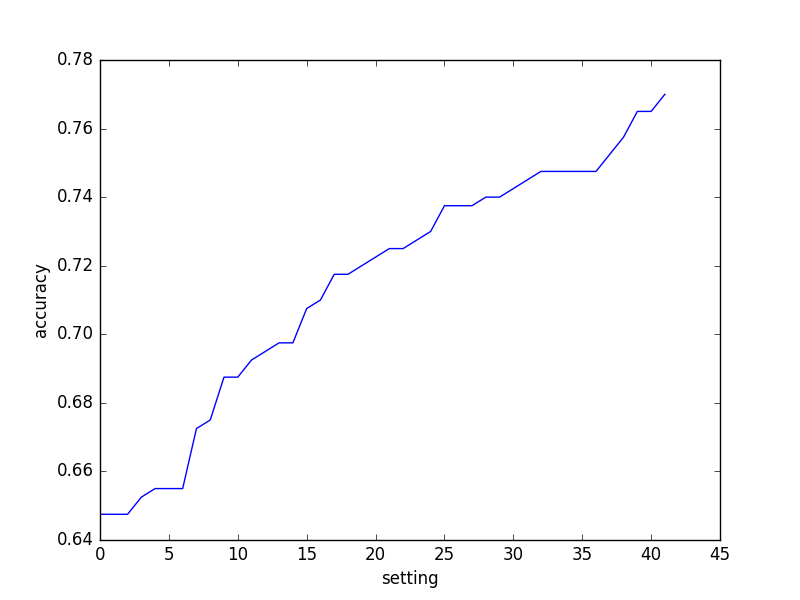
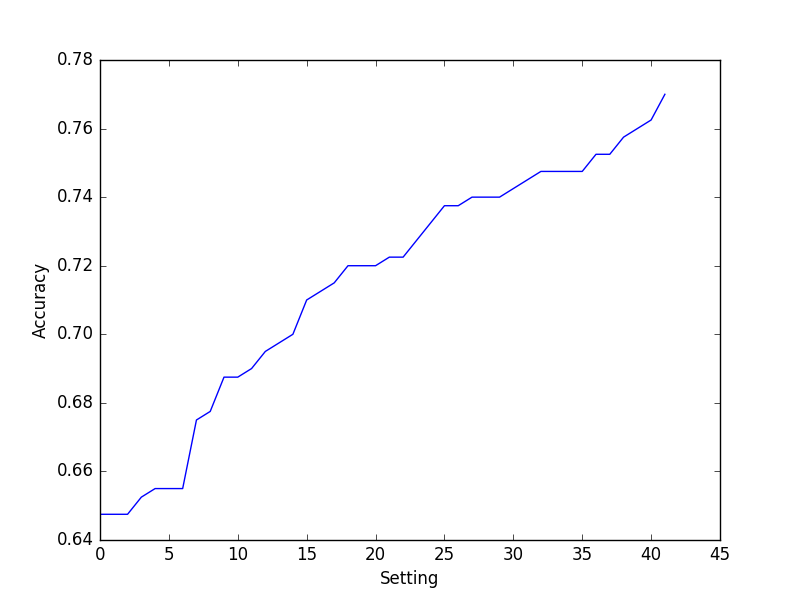
homework complete

diff --git a/a2/a2.py b/a2/a2.py
@@ -29,6 +29,7 @@ import matplotlib.pyplot as plt
 import numpy as np
 import os
 import re
+from string import punctuation
 from scipy.sparse import csr_matrix
 from sklearn.cross_validation import KFold
 from sklearn.linear_model import LogisticRegression
@@ -87,13 +88,24 @@ def tokenize(doc, keep_internal_punct=False):
       a numpy array containing the resulting tokens.
 
     >>> tokenize(" Hi there! Isn't this fun?", keep_internal_punct=False)
-    array(['hi', 'there', 'isn', 't', 'this', 'fun'], 
+    array(['hi', 'there', 'isn', 't', 'this', 'fun'],
           dtype='<U5')
     >>> tokenize("Hi there! Isn't this fun? ", keep_internal_punct=True)
-    array(['hi', 'there', "isn't", 'this', 'fun'], 
+    array(['hi', 'there', "isn't", 'this', 'fun'],
           dtype='<U5')
     """
     ###TODO
+    punctuation_wo_underscore = punctuation.replace("_","")
+
+    if(keep_internal_punct):
+        line = ' '.join(filter(None, (word.strip(punctuation_wo_underscore) for word in doc.split())))
+        line = re.sub(r'\s+'," ",line)
+        tokens_wo_punc = str.split(line.lower())
+        token= np.array(tokens_wo_punc, dtype="unicode")
+
+    else:
+        token= np.array(re.sub('\W+', ' ', doc.lower()).split())
+    return token
     pass
 
 
@@ -116,6 +128,10 @@ def token_features(tokens, feats):
     [('token=hi', 2), ('token=there', 1)]
     """
     ###TODO
+    c = Counter();
+    c.update(tokens)
+    for x in c:
+        feats['token='+x]=c[x]
     pass
 
 
@@ -146,6 +162,16 @@ def token_pair_features(tokens, feats, k=3):
     [('token_pair=a__b', 1), ('token_pair=a__c', 1), ('token_pair=b__c', 2), ('token_pair=b__d', 1), ('token_pair=c__d', 1)]
     """
     ###TODO
+    count =0
+    for t in tokens:
+        a=tokens[count : count + k]
+        array = np.array(a)
+        if len(array)== k:
+            counter = Counter(list(combinations(array, 2)))
+            for i,j in counter.items():
+                i = "token_pair="+ i[0]+"__"+i[1]
+                feats[i] += j
+        count +=1
     pass
 
 
@@ -172,6 +198,15 @@ def lexicon_features(tokens, feats):
     [('neg_words', 1), ('pos_words', 2)]
     """
     ###TODO
+    feats['neg_words'] = 0
+    feats['pos_words'] = 0
+
+    for t in tokens:
+        t = t.lower()
+        if t in neg_words:
+            feats['neg_words'] += 1
+        elif t in pos_words:
+            feats['pos_words'] += 1
     pass
 
 
@@ -192,6 +227,10 @@ def featurize(tokens, feature_fns):
     [('neg_words', 0), ('pos_words', 2), ('token=LOVE', 1), ('token=great', 1), ('token=i', 1), ('token=movie', 1), ('token=this', 1)]
     """
     ###TODO
+    feats = defaultdict(lambda:0)
+    for a in feature_fns:
+        a(tokens, feats)
+    return sorted(feats.items())
     pass
 
 
@@ -228,6 +267,48 @@ def vectorize(tokens_list, feature_fns, min_freq, vocab=None):
     [('token=great', 0), ('token=horrible', 1), ('token=isn', 2), ('token=movie', 3), ('token=t', 4), ('token=this', 5)]
     """
     ###TODO
+    row = []
+    column = []
+    data = []
+    #if vocab == None:
+    vocabtemp = defaultdict(list)
+    doc = defaultdict(dict)
+    for doc_no in range(len(tokens_list)):
+        feats = featurize(tokens_list[doc_no], feature_fns)
+        feat_dic = dict(feats)
+        doc[doc_no] = feat_dic
+        for feat in feat_dic:
+            if vocab!=None:
+                if feat in vocab:
+                    row.append(doc_no)
+                    column.append(vocab[feat])
+                    data.append(feat_dic[feat])
+            elif vocab == None:
+                vocabtemp[feat].append(doc_no)
+
+
+    if vocab ==None:
+        index = 0
+        altered_vocab = {}
+        for key in sorted(vocabtemp):
+            if len(vocabtemp[key]) >= min_freq:
+                altered_vocab[key] = index
+                index += 1
+
+
+        for key in sorted(altered_vocab.keys()):
+            for doc_no in sorted(vocabtemp[key]):
+                if key in doc[doc_no]:
+                    row.append(doc_no)
+                    column.append(altered_vocab[key])
+                    data.append(doc[doc_no][key])
+
+        result_csr = csr_matrix((data, (row, column)), shape=(len(tokens_list), len(altered_vocab)))
+        return result_csr, altered_vocab
+
+    elif vocab != None:
+        result_csr = csr_matrix((data,(row,column)), shape=(len(tokens_list),len(vocab)))
+        return result_csr, vocab
     pass
 
 
@@ -258,6 +339,17 @@ def cross_validation_accuracy(clf, X, labels, k):
       over each fold of cross-validation.
     """
     ###TODO
+    cv = KFold(len(labels), k)
+    acc = []
+
+    for train_idx, test_idx in cv:
+        clf.fit(X[train_idx], labels[train_idx])
+        predicted = clf.predict(X[test_idx])
+        accuracy = accuracy_score(labels[test_idx], predicted)
+        acc.append(accuracy)
+
+    avg = np.mean(acc)
+    return avg
     pass
 
 
@@ -300,6 +392,43 @@ def eval_all_combinations(docs, labels, punct_vals,
       This function will take a bit longer to run (~20s for me).
     """
     ###TODO
+    combi_dict=[]
+    False_tokens=[]
+    True_tokens=[]
+    funct=[]
+    obser={}
+
+
+    feature_functions = []
+    for i in range(0,len(feature_fns)+1):
+        for comb in combinations(feature_fns,i):
+            if (set(comb)):
+                feature_functions.append((comb))
+
+    #print(feature_functions)
+
+    for d in docs:
+        t = tokenize(d, keep_internal_punct=False)
+        False_tokens.append(t)
+        t1 = tokenize(d, keep_internal_punct=True)
+        True_tokens.append(t1)
+
+
+
+    for function in feature_functions:
+        for punct in punct_vals:
+            for freq in min_freqs:
+                if punct==False:
+                    tokens = False_tokens
+                else:
+                    tokens = True_tokens
+                X,y=vectorize(tokens, function, min_freq=freq)
+                accuracy = cross_validation_accuracy(LogisticRegression(),X,labels,5)
+                result = {'punct':punct , 'features':function, 'min_freq':freq, 'accuracy':accuracy}
+                combi_dict.append(result)
+
+
+    return sorted(combi_dict, key=lambda x:(x['accuracy'],x['min_freq']), reverse=True)
     pass
 
 
@@ -310,6 +439,15 @@ def plot_sorted_accuracies(results):
     Save to "accuracies.png".
     """
     ###TODO
+    accuracies = []
+    for comb in results:
+        accuracies.append(comb['accuracy'])
+
+    sorted_list = sorted(accuracies)
+    plt.plot(sorted_list)
+    plt.ylabel("Accuracy")
+    plt.xlabel("Setting")
+    plt.savefig("accuracies.png")
     pass
 
 
@@ -327,6 +465,42 @@ def mean_accuracy_per_setting(results):
       descending order of accuracy.
     """
     ###TODO
+    accuraciesTrue=[]
+    accuraciesFalse=[]
+    mean_accuracylist=[]
+    for dic in results:
+        if(dic['punct']):
+            accuraciesTrue.append(dic['accuracy'])
+        if(not dic['punct']):
+            accuraciesFalse.append(dic['accuracy'])
+    tup=tuple((np.mean(accuraciesTrue),'punct=True'))
+    mean_accuracylist.append(tup)
+    tup=tuple((np.mean(accuraciesFalse),'punct=False'))
+    mean_accuracylist.append(tup)
+    accuraciesMin2=[]
+    accuraciesMin5=[]
+    accuraciesMin10=[]
+    for dic in results:
+        if(dic['min_freq']==2):
+             accuraciesMin2.append(dic['accuracy'])
+        elif(dic['min_freq']==5):
+            accuraciesMin5.append(dic['accuracy'])
+        elif(dic['min_freq']==10):
+            accuraciesMin10.append(dic['accuracy'])
+    tup=tuple((np.mean(accuraciesMin2),'min_freq=2'))
+    mean_accuracylist.append(tup)
+    tup=tuple((np.mean(accuraciesMin5),'min_freq=5'))
+    mean_accuracylist.append(tup)
+    tup=tuple((np.mean(accuraciesMin10),'min_freq=10'))
+    mean_accuracylist.append(tup)
+    for features in set([doc['features'] for doc in results]):
+        mean=[]
+        for r in results:
+            if r['features']==features:
+                mean.append(r['accuracy'])
+        feature='features='+' '.join([func.__name__ for func in list(features)])
+        mean_accuracylist.append((np.mean(mean),feature))
+    return sorted(mean_accuracylist, key=lambda x: (-x[0]))
     pass
 
 
@@ -348,6 +522,13 @@ def fit_best_classifier(docs, labels, best_result):
       vocab...The dict from feature name to column index.
     """
     ###TODO
+    tokens_list = [tokenize(doc,best_result['punct']) for doc in docs]
+    functionList=[]
+
+    X,vocab=vectorize(tokens_list,best_result['features'],best_result['min_freq'])
+    clf = LogisticRegression()
+    clf.fit(X,labels)
+    return clf,vocab
     pass
 
 
@@ -369,6 +550,24 @@ def top_coefs(clf, label, n, vocab):
       given class label.
     """
     ###TODO
+    coef = clf.coef_[0]
+
+    if label == 1:
+        top_coef_ind = sorted(range(len(clf.coef_[0])), key=lambda x: clf.coef_[0][x], reverse=True)[:n]
+    else:
+        top_coef_ind = sorted(range(len(clf.coef_[0])), key=lambda x: clf.coef_[0][x])[:n]
+    top_coef_terms = np.array([k for k,v in sorted(vocab.items(), key=lambda x: x[1])])[top_coef_ind]
+    top_coef = coef[top_coef_ind]
+    if(label==0):
+        neg=[]
+        for f in zip(top_coef_terms, top_coef*-1):
+            neg.append(f)
+        return neg
+    if(label==1):
+        pos=[]
+        for f in zip(top_coef_terms, top_coef):
+            pos.append(f)
+        return pos
     pass
 
 
@@ -397,6 +596,10 @@ def parse_test_data(best_result, vocab):
                     each column is a feature.
     """
     ###TODO
+    docs, labels = read_data(os.path.join('data', 'test'))
+    tokens_list = [tokenize(d, best_result['punct']) for d in docs]
+    X_test, vocab = vectorize(tokens_list, best_result['features'], best_result['min_freq'], vocab)
+    return docs, labels, X_test
     pass
 
 
@@ -424,6 +627,26 @@ def print_top_misclassified(test_docs, test_labels, X_test, clf, n):
       Nothing; see Log.txt for example printed output.
     """
     ###TODO
+    result = []
+    predicted = clf.predict(X_test)
+    predicted_prob = clf.predict_proba(X_test)
+
+    for i in range(len(predicted)):
+        res = {}
+        if predicted[i] != test_labels[i]:
+            if predicted[i] != 0:
+                res ={'truth' : test_labels[i], 'predicted': predicted[i], 'probability': predicted_prob[i][1], 'test':test_docs[i]}
+            else:
+                res ={'truth' : test_labels[i], 'predicted': predicted[i], 'probability': predicted_prob[i][0], 'test':test_docs[i]}
+
+            result.append(res)
+
+    result = sorted(result, key=lambda x: (x['probability']), reverse=True)[:n]
+
+    for r in result:
+        print('truth=%d predicted=%d proba=%.6f'%(r['truth'], r['predicted'], r['probability']))
+        print(r['test'])
+        print("\n")
     pass
 
 
